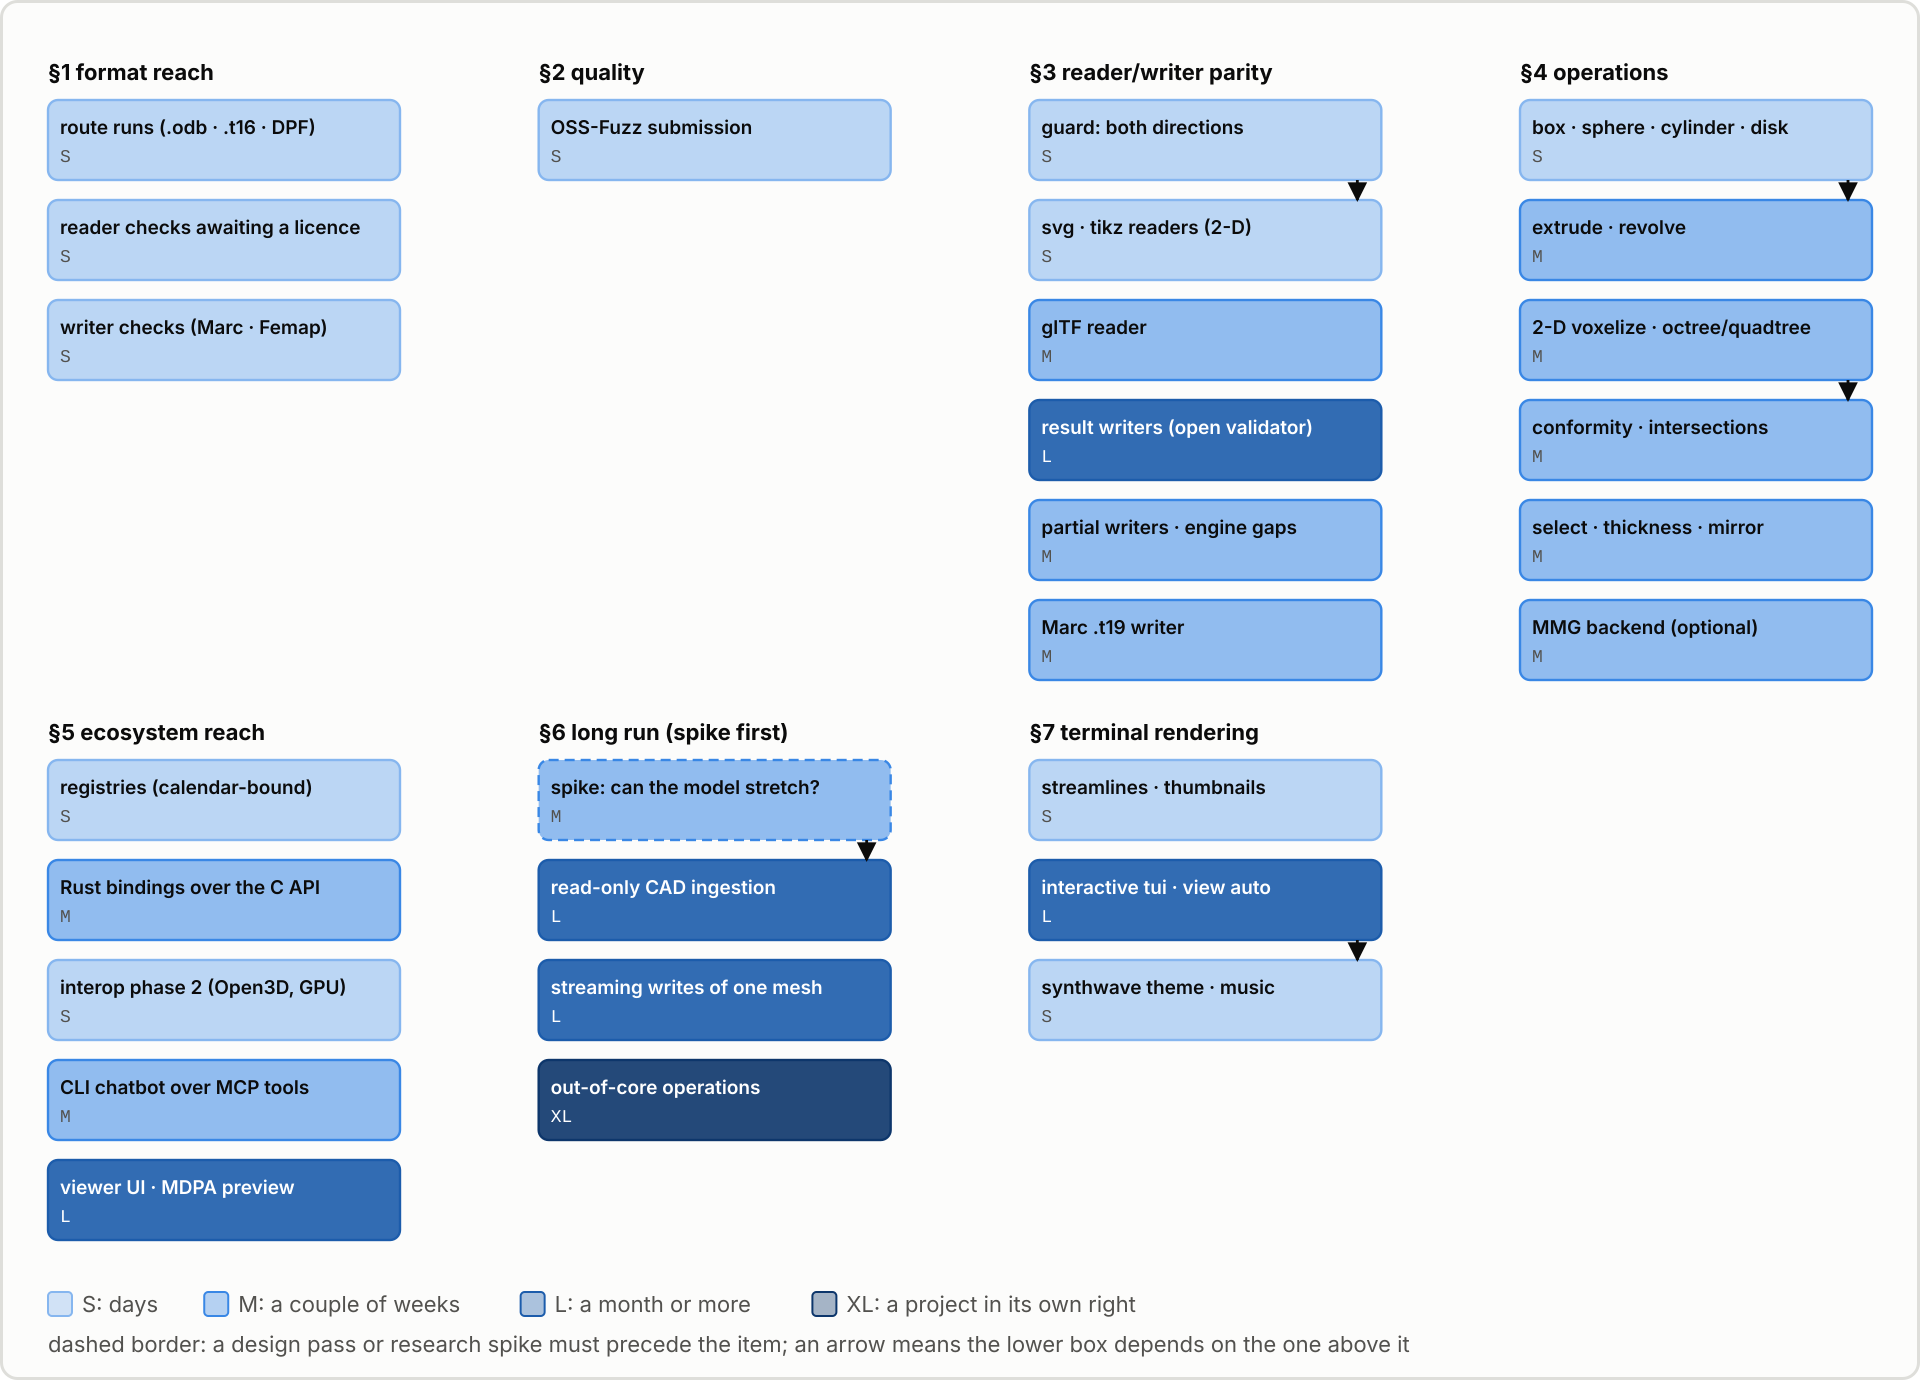
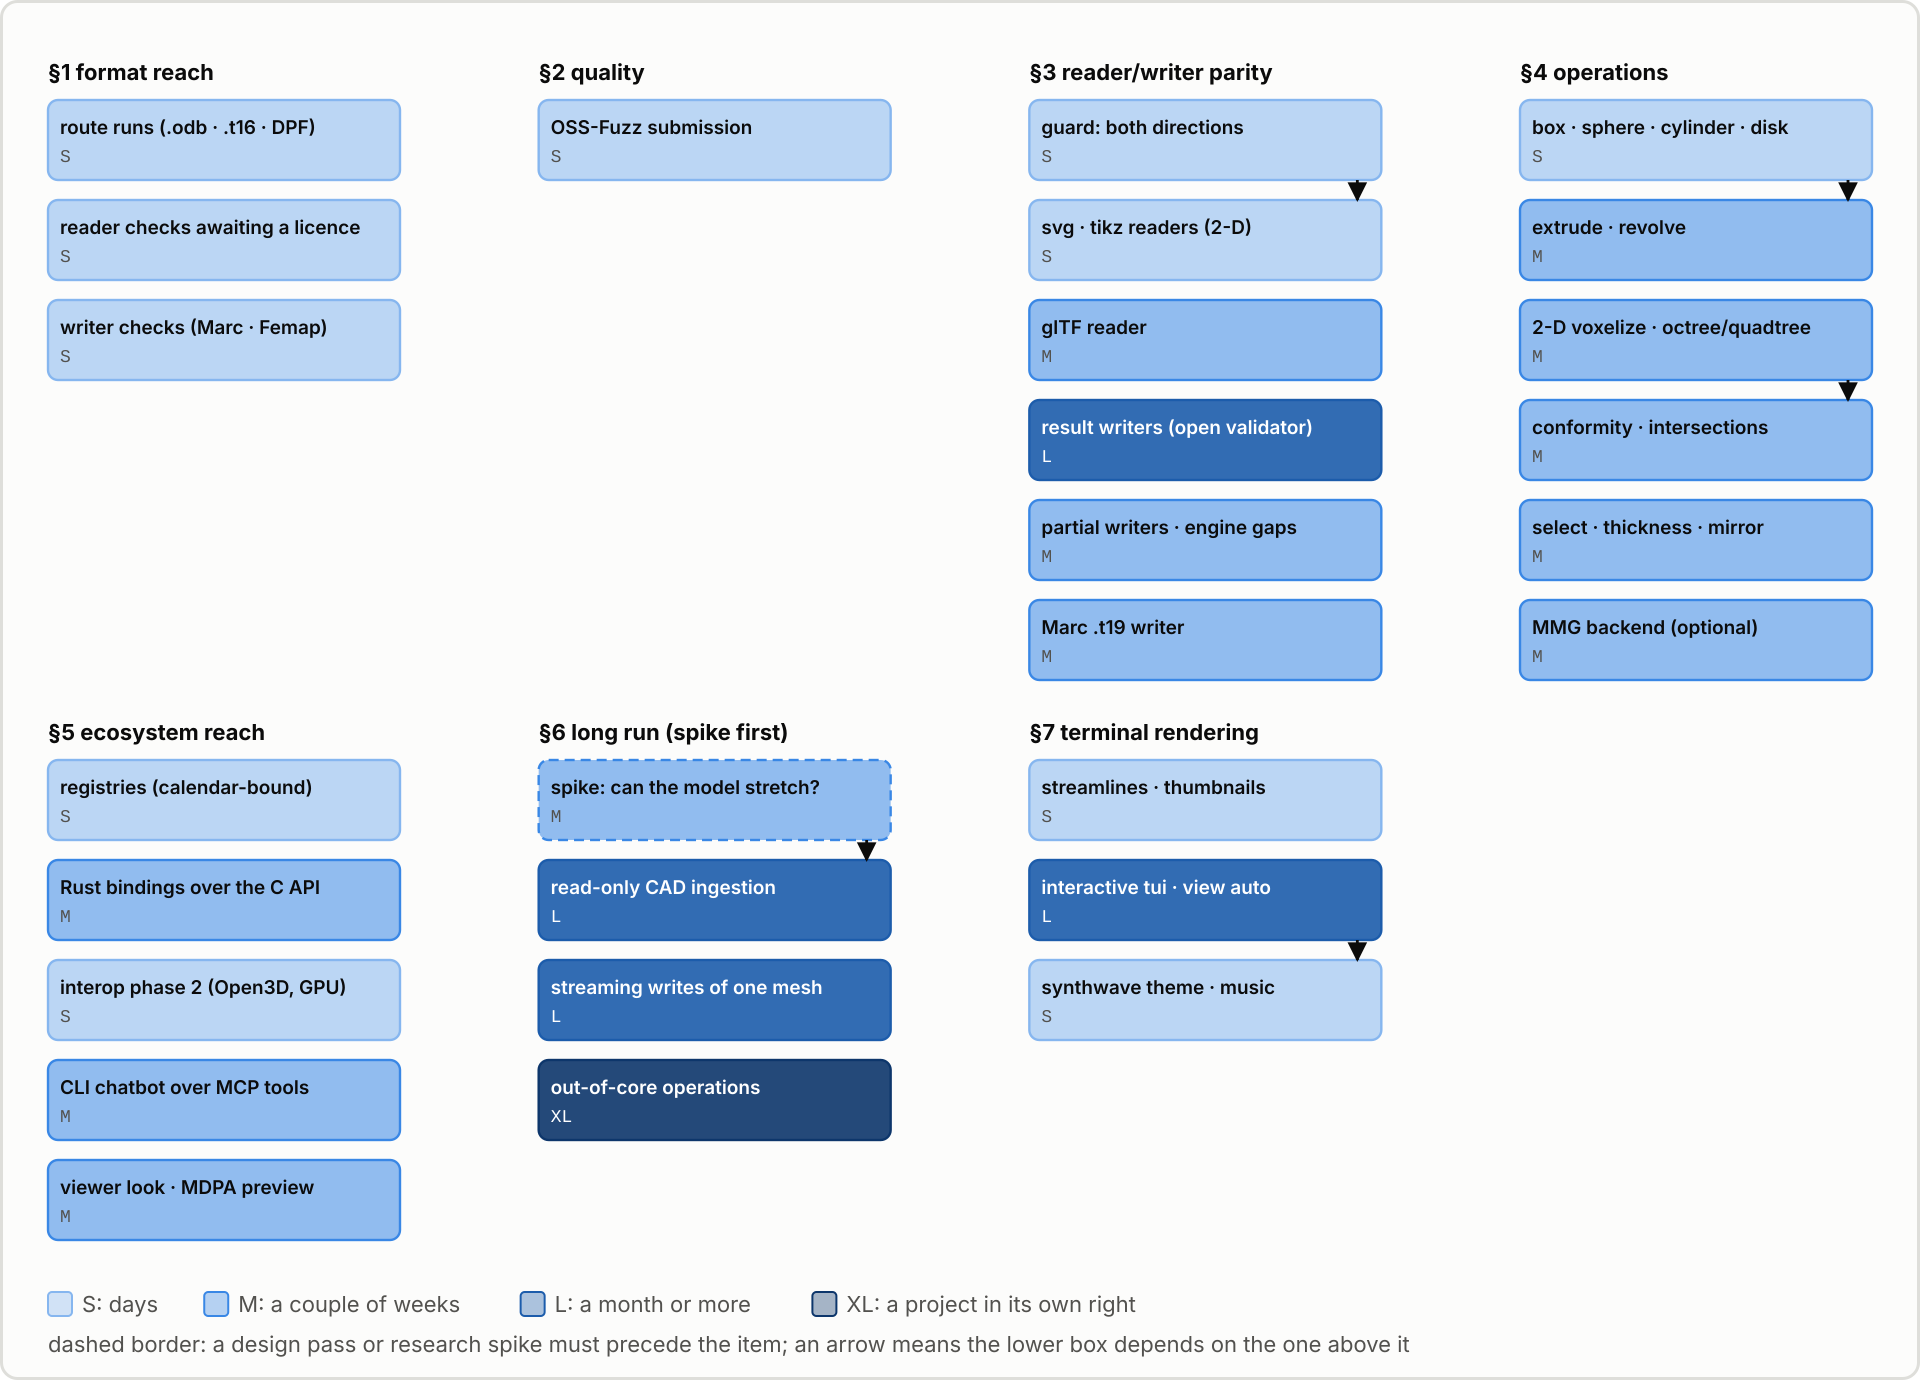
doc: narrow the viewer item to the look
The unify is aesthetic only. Item 5.5 now covers colours, type scale,
spacing, radii, elevation, control styling, icons and light and dark. It
drops the licence decision, the layer and Find by ID sub-items, the field
modes and Measure sub-items, and the colormap list. Sequencing step 7 and
the map's §5 label follow; the map is regenerated and gen_diagrams.py
--check passes.

Claude-Session: https://claude.ai/code/session_01U6aPV4tXmBeVmGyTn4Co43

Changed region(s): [[0.0, 0.8413, 0.2188, 0.9036]]

diff --git a/doc/diagrams/figures/flows.py b/doc/diagrams/figures/flows.py
@@ -987,7 +987,7 @@ def roadmap_map():
                 ("Rust bindings over the C API", "M"),
                 ("interop phase 2 (Open3D, GPU)", "S"),
                 ("CLI chatbot over MCP tools", "M"),
-                ("viewer UI · MDPA preview", "L"),
+                ("viewer look · MDPA preview", "M"),
             ],
             [],
         ),

diff --git a/doc/roadmap.md b/doc/roadmap.md
@@ -254,12 +254,10 @@ What changed since parity last had a section. The reader/writer triage of Septem
   - **5.4.2 v1 scope.** A stateless-per-turn loop (history + tool schemas out, tool calls executed, results fed back until a plain-text reply) over files under the CWD or `--root`, reusing the MCP sandbox; context lives only in the terminal session — no persistence, no server.
   - **5.4.3 Packaging.** A `chat` extra carrying the model provider's SDK, kept out of `[all]` and imported only by the new `_cli/_chat.py`, so `_tools.py`, the default CI matrix and every other surface are untouched; without the extra or an API key the verb fails by name, following the `meshioplusplus-mcp` entry-point precedent. Provider-agnostic wiring and persisted history are follow-ups, not v1.
   - **5.4.4 Docs.** A `doc/chat.md` page modelled on [MCP](./mcp.md), plus the README and tool-table updates the `AGENTS.md` checklist requires.
-- **5.5 Unify the browser viewer's UI with the VS Code MDPA preview.** The two viewers of one Kratos mesh look and behave differently. The [browser viewer](./viewer.md) (`src/viewer/`, MIT) has a *Colour by* choice, a Surface/Wireframe/Points switch, operations as chips, Download, Fit, PNG and click-to-inspect, with six colormaps. The [VS Code preview](https://github.com/loumalouomega/VSCode-MDPA-Preview) (also vtk.js, AGPL-3.0-or-later) has an outline of ModelPart and SubModelPart layers, Find by ID, Inspect with a two-node Measure, a field panel with five modes (contour, quiver, isosurface, threshold, deformed shape) and a lockable range, a quality panel with histograms, and twelve colormaps. Editing, remeshing and running Kratos cases are Kratos workflow rather than viewing, so they stay in the extension. **Verify first:** the estimate comes from the extension's README and the viewer's own page, not from running the two side by side. **L**
-  - **5.5.1 The decision this item records: share code, or share a contract.** The extension is AGPL-3.0-or-later and this repository is MIT, so neither can take the other's source without a licence decision. The two routes are (a) a shared UI package under a licence both can use, or (b) a written UI contract (control names, their order and defaults, the colormap list, and the visual tokens of `webview/design-system.css` and `src/viewer/src/style.css`) implemented in each repository and checked by a probe in each. The recommendation is (b): it needs no licence change, and the probe shows drift. **Findings before code.** **S**
-  - **5.5.2 One colormap list.** The browser viewer hand-rolls its six maps (`src/viewer/src/render/colormaps.ts`, default *Cool to Warm*), and the extension defaults to *Rainbow*. The table that `tools/gen_colormaps.py` generates holds seven base maps, emitted as the C++ and Python twins only. Emit a TypeScript twin from the same script, add whichever of the extension's maps the core should carry (Cividis, Blue-Orange, Spectral, HSV, Rainbow) by extending the table only, so existing SVG, TikZ and glTF output stays byte-identical, and agree one default: the roadmap keeps viridis for quantitative data ([§7.4.1](#_7-terminal-rendering-tui)). **S**
-  - **5.5.3 Layers, and Find by ID.** Each ModelPart and SubModelPart becomes a toggleable layer, and an entity is found by its id. The outline is short of data: the `subModelParts` entries of the WASM side channel carry name, data, tables, and geometry and constraint ids, with no node or element membership (`src/wasm/index.d.ts`). **Verify first** whether the regions that reach JavaScript carry that membership; if they do not, extend the C++ `MdpaInfo` and its binding before building the outline. **M**
-  - **5.5.4 Field modes, and Measure.** The browser viewer has one colour-by choice, and no quiver, threshold or deformed-shape view and no two-node measure. Start with the three field views that do not build a new mesh, with the lockable range and banding that go with them; the viewer already sends vector and tensor arrays across with every component. Its Isosurface is an operation that replaces the mesh, where the extension's is a live layer with sliders, so pick one interaction for both. **M**
-  - **5.5.5 Probe.** A Playwright spec in `tests/viewer/` opens an MDPA fixture and asserts each control in the 5.5.1 contract by name, order and default. It fails today on the first control the browser viewer lacks. **S**
+- **5.5 Unify the browser viewer's look with the VS Code MDPA preview.** Aesthetics only: colours, type scale, spacing, radii, elevation, control styling, icons, and light and dark, so the two front ends of one Kratos mesh look like one product. Controls, features, defaults and colormaps stay as they are. The extension already has the vocabulary: `webview/design-system.css` defines `--ui-*` tokens for radii, spacing, elevation and type sizes, and its colours come from the host theme's `--vscode-*` variables. The browser viewer has six colours of its own in `src/viewer/src/style.css`, one dark palette and no light scheme. **S–M**
+  - **5.5.1 Tokens.** One scale and two palettes. The viewer adopts the `--ui-*` names, and its dark and light colours take VS Code's default theme values, so it looks like the preview under VS Code's defaults. The viewport takes the extension's scene backgrounds from `webview/themes.ts` (`#1e1e1e` dark, `#f0f0f0` light). **Verify first:** the palette values come from VS Code's own default theme files, which the extension does not contain. **S**
+  - **5.5.2 Chrome.** The header, file button, panels, selects, operation chips, the inspect panel and the DOM legend take the tokens, and the dataset manager (`src/viewer/src/dataset/style.css`), built by the same web build, follows. Icons adopt the extension's TikZ-drawn set (its `icons/` directory), whose `svg-ui` files are the shared source, since regenerating them needs `pdflatex`. **S–M**
+  - **5.5.3 Probe.** A Playwright spec in `tests/viewer/` renders the page in both colour schemes and asserts the header and panel colours, the radii and the type sizes against the tokens. It fails today, because the viewer has no light scheme. **S**
 
 ---
 
@@ -381,6 +379,6 @@ Open work only; what shipped is in `CHANGELOG.md`.
 4. **Primitive constructors ([§4](#_4-operations))** — tier 1 and the reference cells first, a few days, and a prerequisite of the conformance matrix, every demo surface, `extrude`/`revolve`, the 2-D `voxelize` and the octree's fixtures; the other tiers as tests and notebooks ask for them.
 5. **Voxel and octree meshes ([§4](#_4-operations))** — the 2-D `voxelize`, then the octree with hanging nodes and its quadtree, then the polyhedral transitions; the transition templates when a finite-element consumer asks.
 6. **The MMG backend ([§4](#_4-operations))** — Medit `.sol` first, since it needs no link and opens the file route; then `adapt`, `discretize_levelset`, `mesh_domain` and, with ELAS, `move`.
-7. **Registration ([§5](#_5-ecosystem-reach))** — calendar-bound, so start the submissions early and let them run alongside everything else; the viewer unification (5.5) starts with its licence decision in 5.5.1 and can run beside them.
+7. **Registration ([§5](#_5-ecosystem-reach))** — calendar-bound, so start the submissions early and let them run alongside everything else; the viewer's look (5.5) needs no decision first and can run beside them.
 8. **Long-run spikes ([§6](#_6-long-run-spike-first))** — the benchmark tier decides the scale items; the NURBS spike is scheduled independently of the rest; skin-to-CAD (6.3) starts with the segmentation, the primitive fits and the faceted STEP writer, which need no CAD kernel, and waits on the OpenCASCADE decision it shares with 6.2.4.
 9. **Terminal rendering ([§7](#_7-terminal-rendering-tui))** — the follow-ups of 7.1 whenever they are asked for; the interactive loop and the `view(backend="auto")` change (7.2–7.3); the optional synthwave theme and generated soundtrack (7.4) at the very end.
